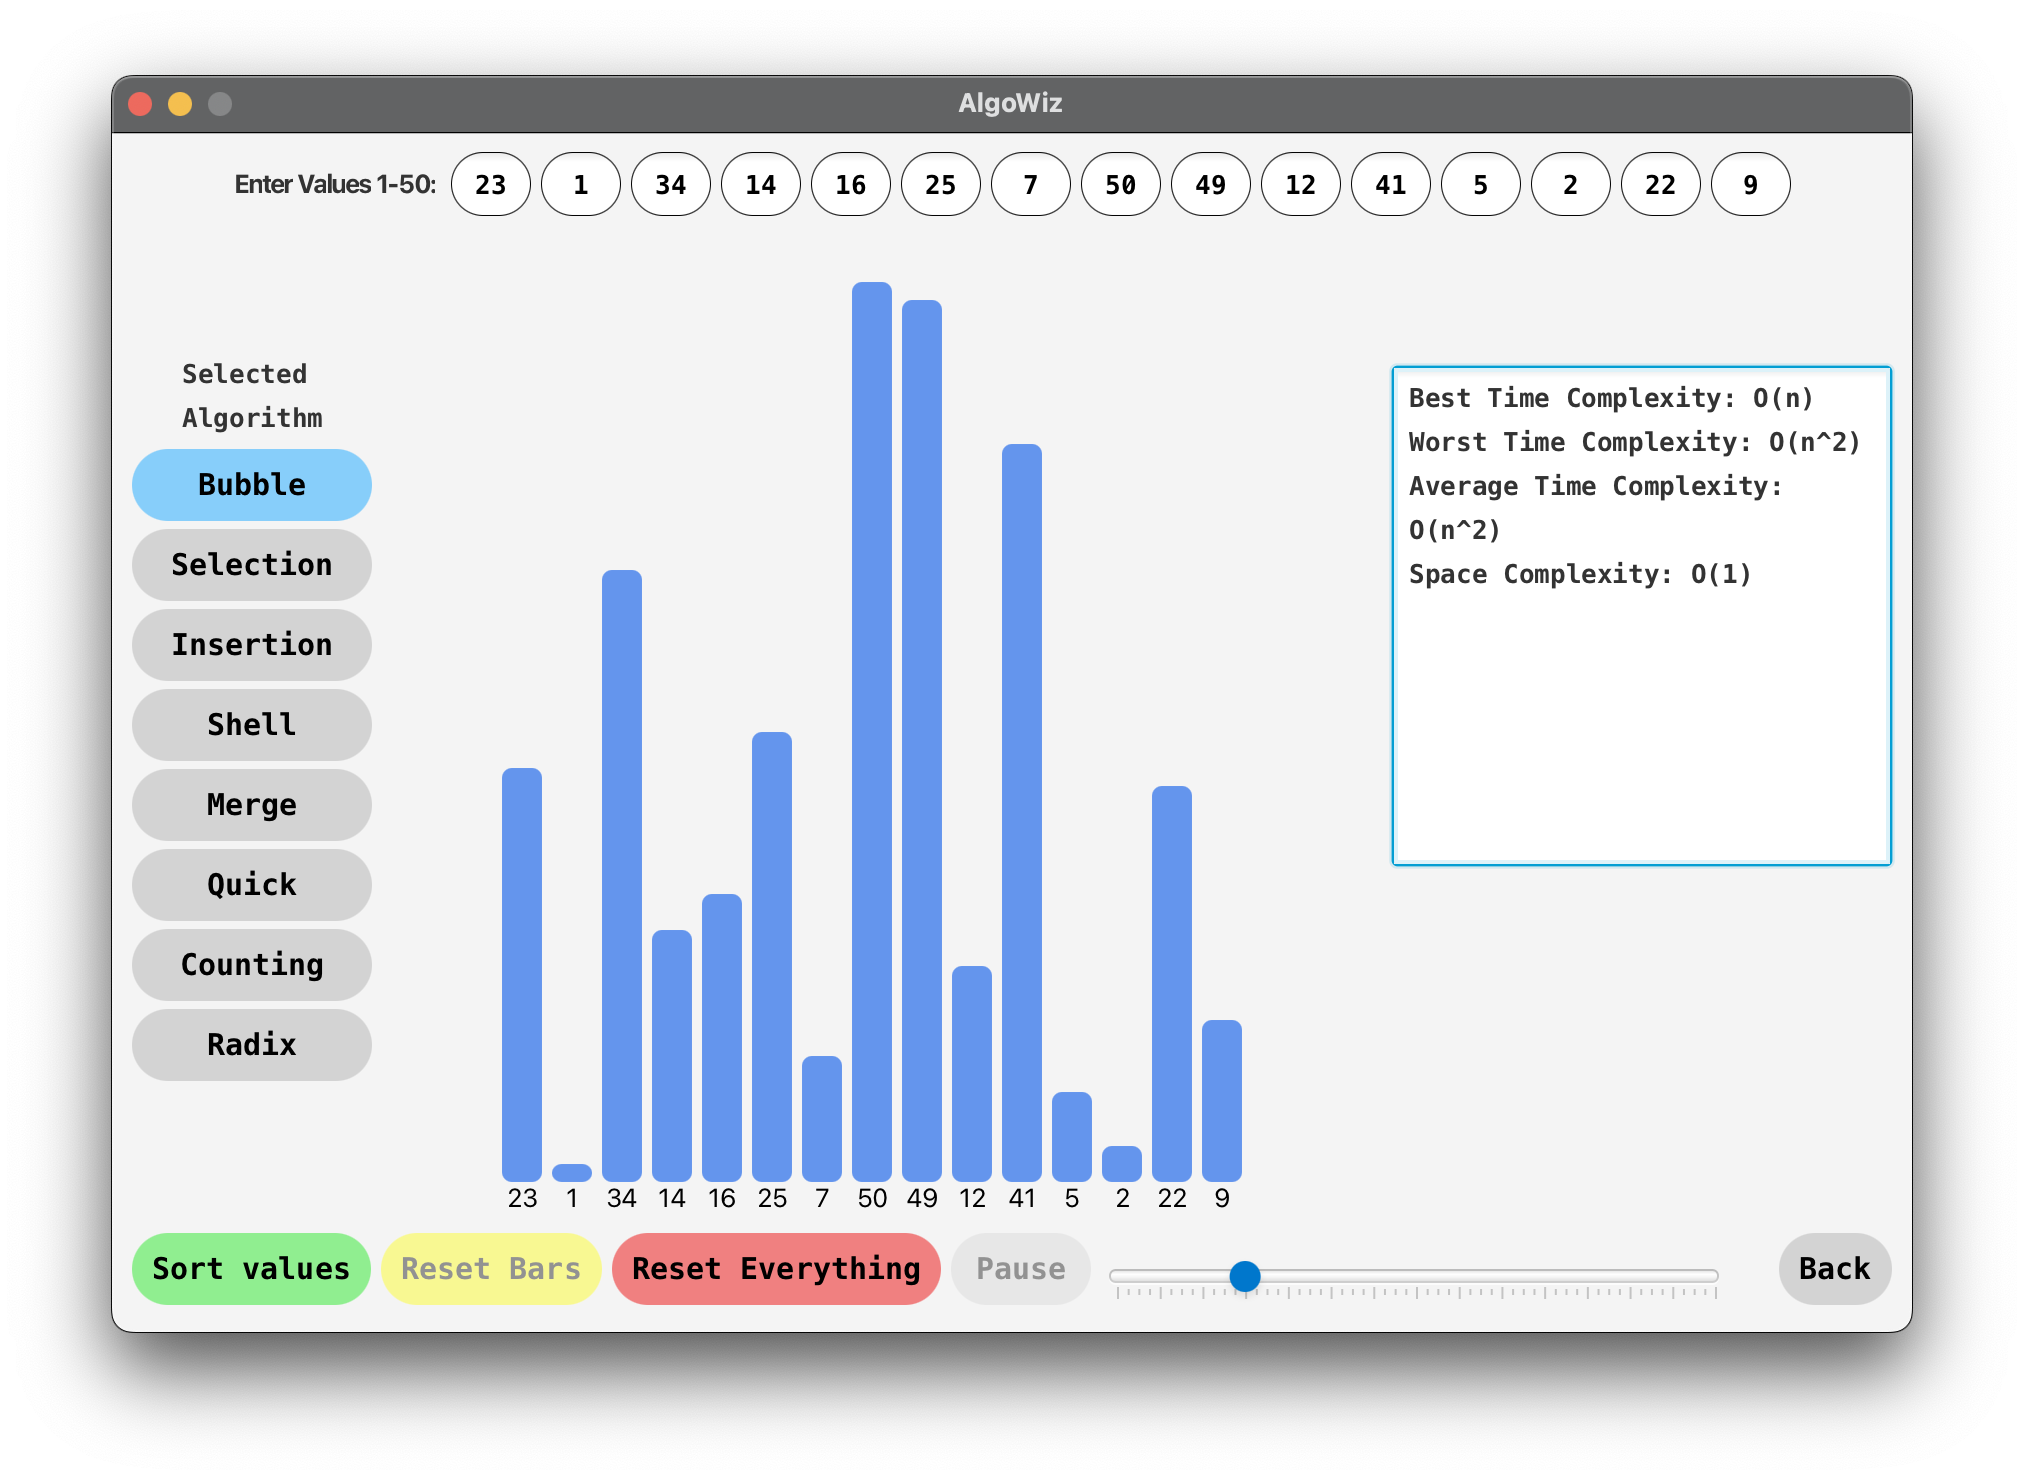
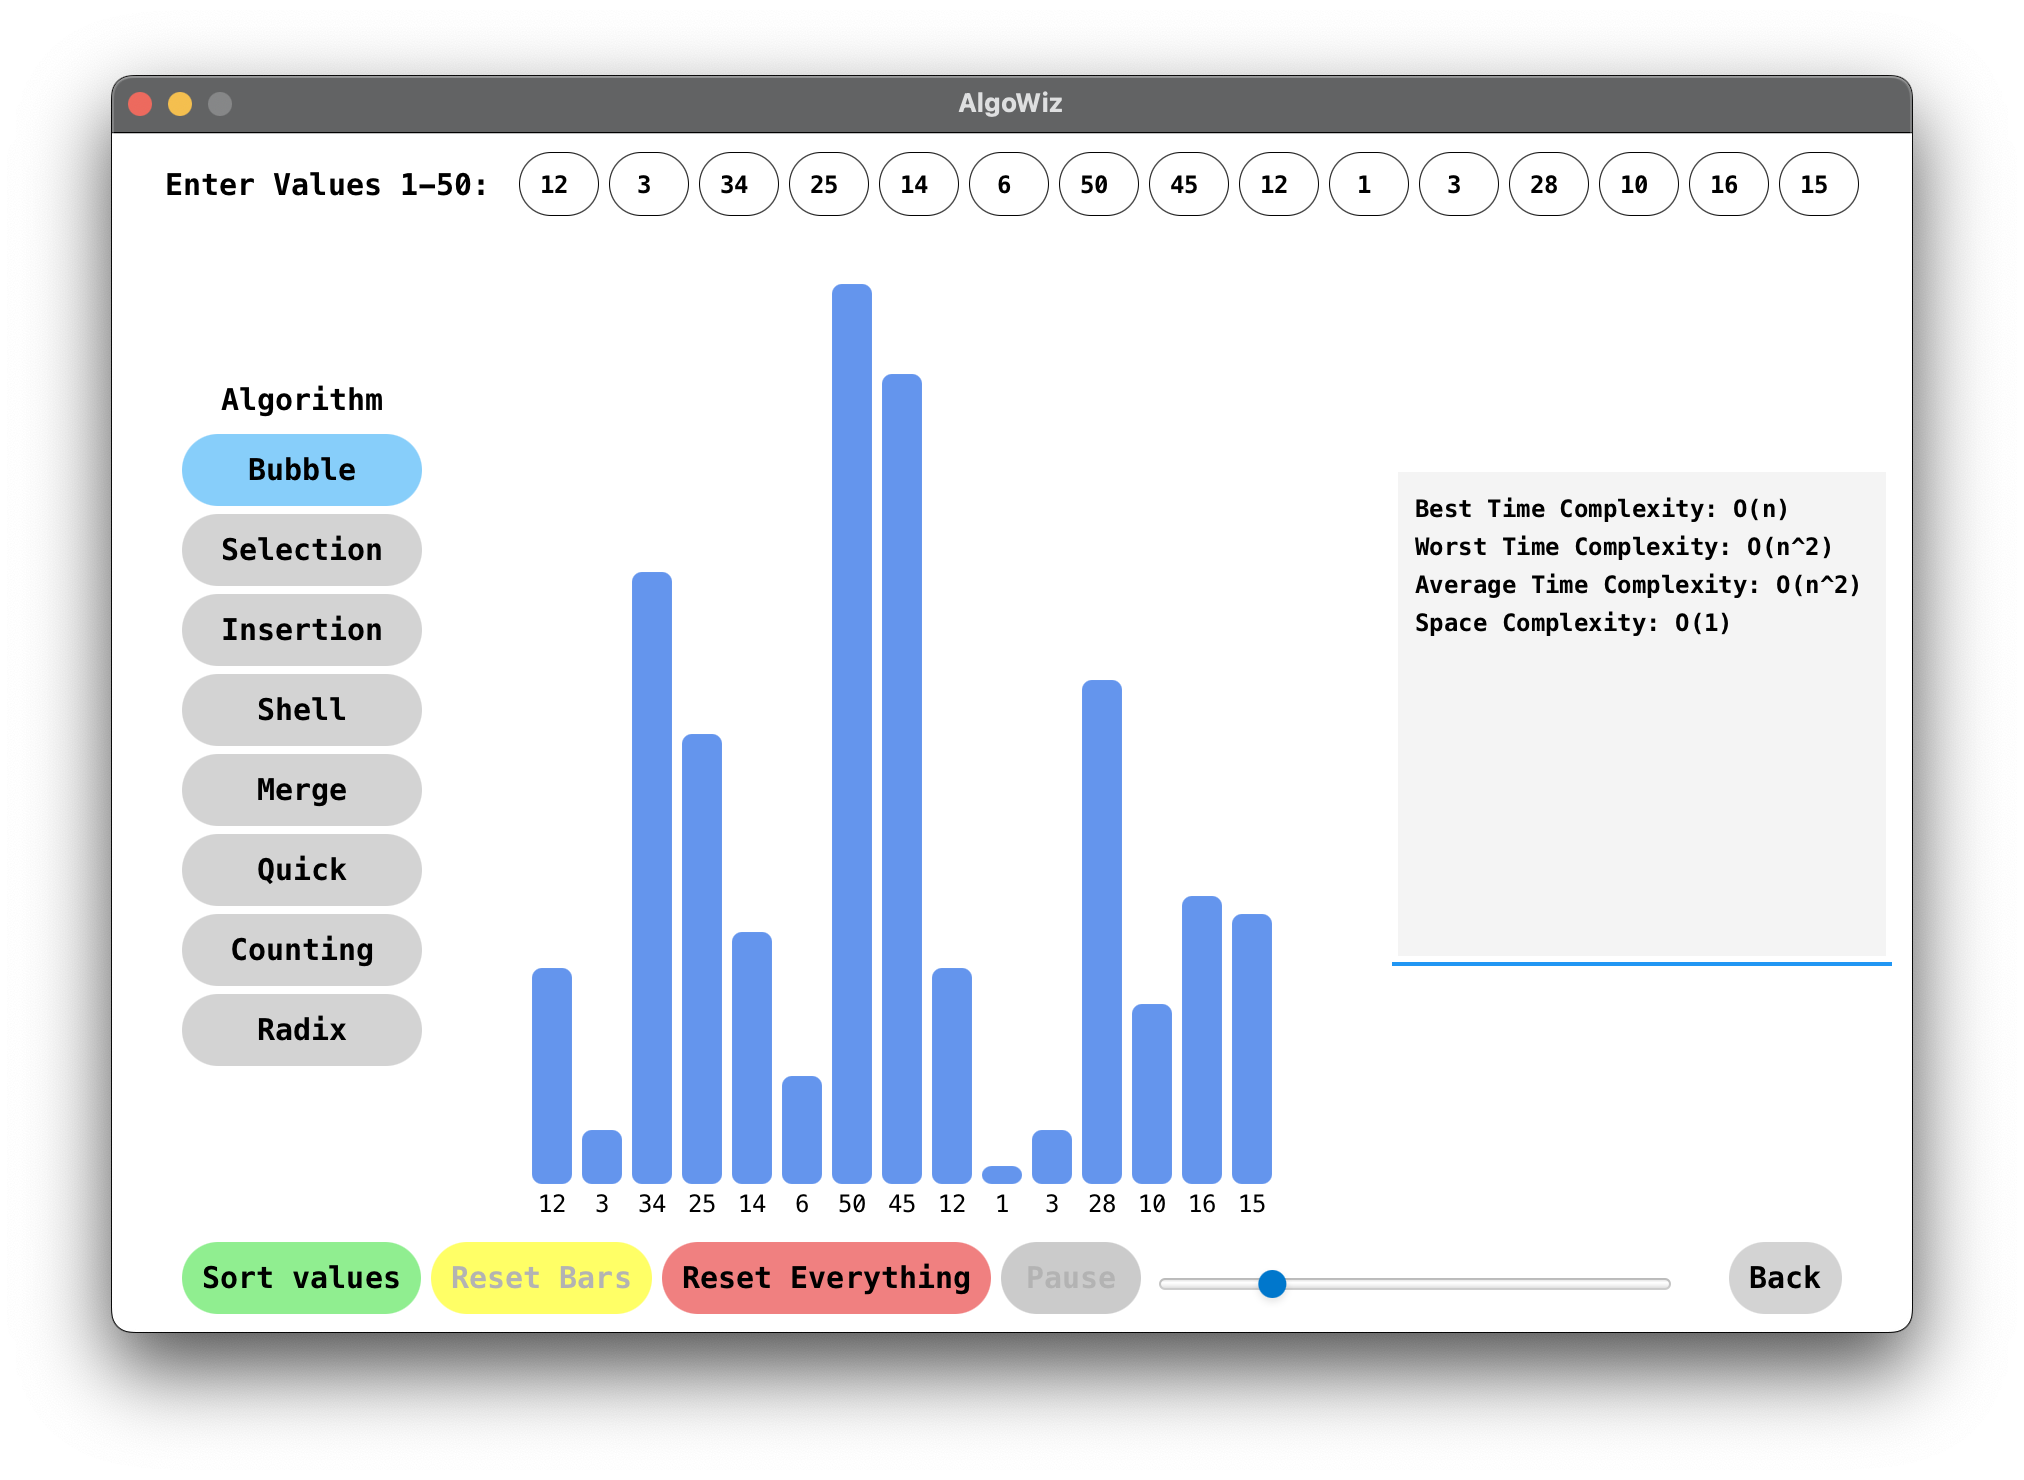
Godspeed

diff --git a/src/main/resources/com/example/algorithmvisualizer/generalStyle.css b/src/main/resources/com/example/algorithmvisualizer/generalStyle.css
@@ -42,7 +42,7 @@
     -fx-border-width: 0;
     -fx-alignment: center;
     -fx-max-width: 300;
-    -fx-max-height: 400;
+    -fx-max-height: 500;
     -fx-font-family: "MesloLGL Nerd Font";
     -fx-font-weight: bold;
 }

diff --git a/src/main/java/com/example/algorithmvisualizer/AlgorithmVisualizerMenuController.java b/src/main/java/com/example/algorithmvisualizer/AlgorithmVisualizerMenuController.java
@@ -6,6 +6,7 @@ import javafx.fxml.FXML;
 import javafx.fxml.FXMLLoader;
 import javafx.scene.Parent;
 import javafx.scene.Scene;
+import javafx.scene.control.Label;
 import javafx.scene.image.Image;
 import javafx.scene.image.ImageView;
 import javafx.scene.layout.AnchorPane;
@@ -14,6 +15,17 @@ import javafx.stage.Stage;
 import java.util.Objects;
 
 public class AlgorithmVisualizerMenuController {
+    @FXML
+    private Label label1;
+
+    @FXML
+    private Label label2;
+
+    @FXML
+    private Label label3;
+
+    @FXML
+    private Label label4;
     @FXML
     private AnchorPane mainAnchorPane;
     private Scene primaryScene;
@@ -27,6 +39,10 @@ public class AlgorithmVisualizerMenuController {
 
     @FXML
     private void initialize() {
+        this.label1.setStyle("-fx-text-fill: white");
+        this.label2.setStyle("-fx-text-fill: white");
+        this.label3.setStyle("-fx-text-fill: white");
+        this.label4.setStyle("-fx-text-fill: white");
         String imageFilePath = Objects.requireNonNull(getClass().getResource("/images/mainMenuBackground.jpg")).toString();
         Image image = new Image(imageFilePath);
         ImageView imageView = new ImageView(image);
@@ -46,9 +62,9 @@ public class AlgorithmVisualizerMenuController {
             FXMLLoader loader = new FXMLLoader(getClass().getResource("Menu.fxml"));
             Scene currentScene = mainAnchorPane.getScene();
             System.out.println("Passing Primary Scene to MainWindow: " + primaryScene);
-            String stylesheetPath = Objects.requireNonNull(getClass().getResource("styles.css")).toExternalForm();
+            String stylesheetPath = Objects.requireNonNull(getClass().getResource("generalStyle.css")).toExternalForm();
             MainWindow mainWindow = new MainWindow(primaryScene, loader, stylesheetPath);
-            currentScene.getStylesheets().add(Objects.requireNonNull(this.getClass().getResource("styles.css")).toExternalForm());
+            currentScene.getStylesheets().add(Objects.requireNonNull(this.getClass().getResource("generalStyle.css")).toExternalForm());
             currentScene.setRoot(mainWindow);
         } catch (Exception e) {
             e.printStackTrace();
@@ -66,7 +82,7 @@ public class AlgorithmVisualizerMenuController {
             FXMLLoader loader = new FXMLLoader(getClass().getResource("PathfindingVisualizer.fxml"));
             Parent pathfindingRoot = loader.load();
             Scene currentScene = mainAnchorPane.getScene();
-            currentScene.getStylesheets().add(Objects.requireNonNull(this.getClass().getResource("Pathfinding.css")).toExternalForm());
+            currentScene.getStylesheets().add(Objects.requireNonNull(this.getClass().getResource("pathStyle.css")).toExternalForm());
             currentScene.setRoot(pathfindingRoot);
         } catch (Exception e) {
             e.printStackTrace();
@@ -84,7 +100,7 @@ public class AlgorithmVisualizerMenuController {
             FXMLLoader loader = new FXMLLoader(getClass().getResource("Canvas.fxml"));
             Parent pathfindingRoot = loader.load();
             Scene currentScene = mainAnchorPane.getScene();
-            currentScene.getStylesheets().add(Objects.requireNonNull(this.getClass().getResource("Styling.css")).toExternalForm());
+            currentScene.getStylesheets().add(Objects.requireNonNull(this.getClass().getResource("graphStyle.css")).toExternalForm());
             currentScene.setRoot(pathfindingRoot);
             cref = loader.getController();
         } catch (Exception e) {

diff --git a/src/main/java/com/example/algorithmvisualizer/CanvasController.java b/src/main/java/com/example/algorithmvisualizer/CanvasController.java
@@ -160,7 +160,7 @@ public class CanvasController implements Initializable, ChangeListener {
                 FXMLLoader loader = new FXMLLoader(getClass().getResource("/com/example/algorithmvisualizer/Menu.fxml"));
                 Parent menuRoot = loader.load();
                 Scene scene = canvasBackButton.getScene();
-                scene.getStylesheets().add(Objects.requireNonNull(getClass().getResource("menuButtonStyle.css")).toExternalForm());
+                scene.getStylesheets().add(Objects.requireNonNull(getClass().getResource("menuStyle.css")).toExternalForm());
                 scene.setRoot(menuRoot);
                 AlgorithmVisualizerMenuController controller = loader.getController();
                 controller.setPrimaryScene(scene);

diff --git a/src/main/java/com/example/algorithmvisualizer/view/DescriptionBox.java b/src/main/java/com/example/algorithmvisualizer/view/DescriptionBox.java
@@ -19,6 +19,7 @@ public class DescriptionBox extends VBox {
 
         this.setPrefWidth(250);
         this.setPrefHeight(250);
+        descriptionTextArea.setStyle("-fx-background-color: white;");
     }
 
     public void setDescription(String description) {
